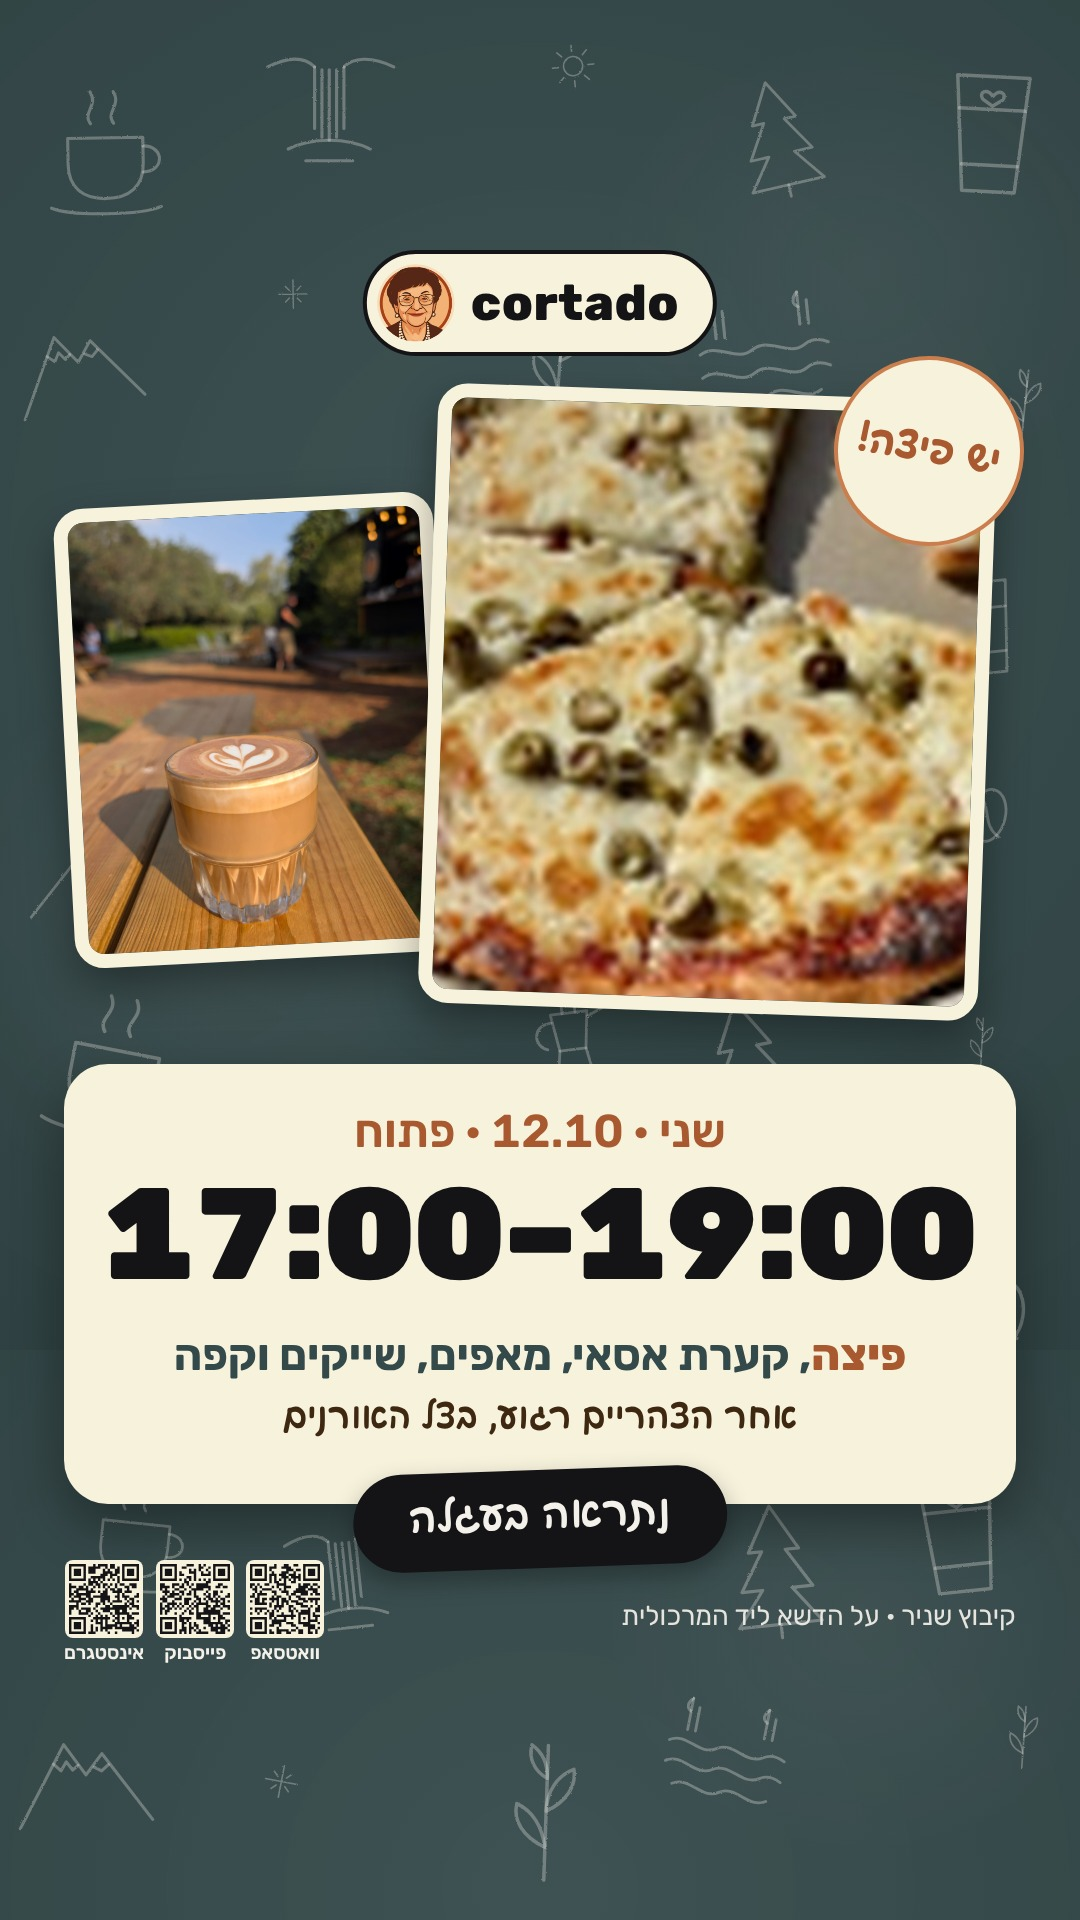
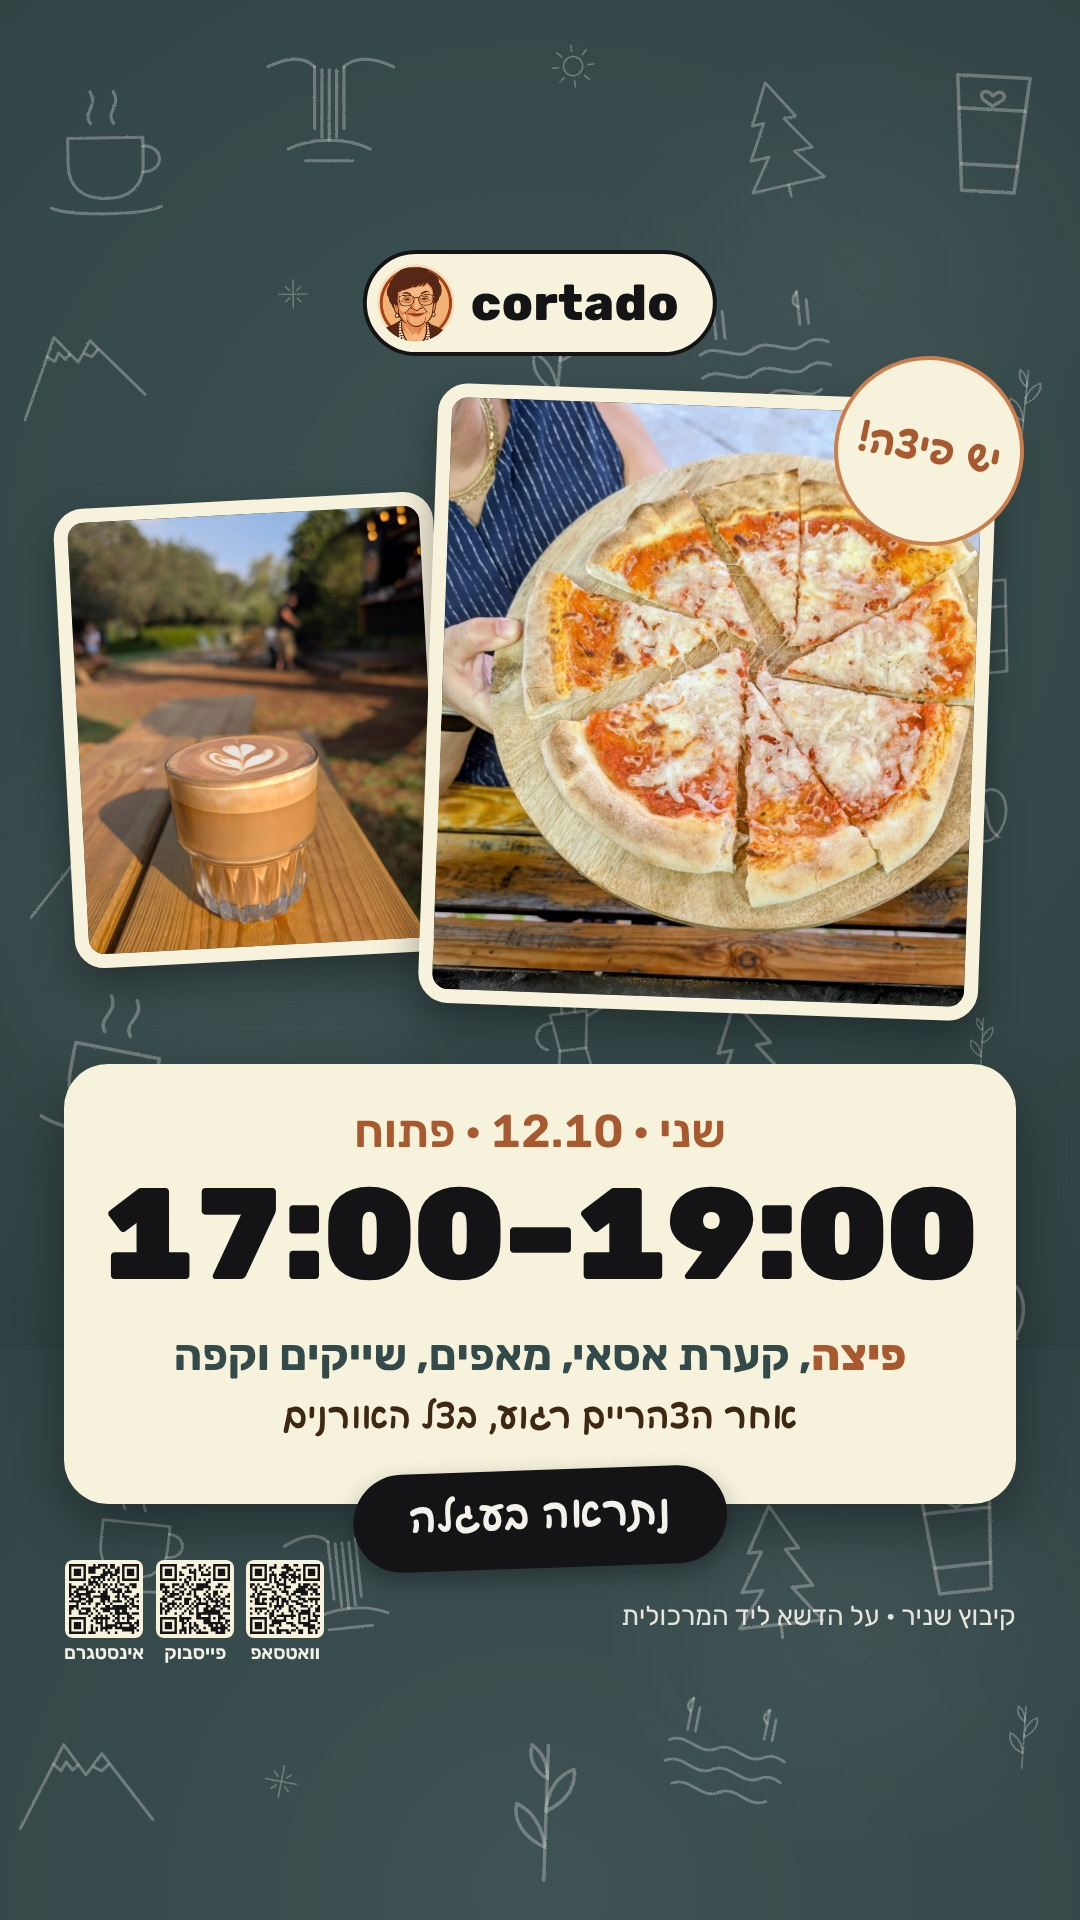
Next-day story: rotate photos inside each category, 10 new food photos from Drive
Claude-Session: https://claude.ai/code/session_019QzmPdVBuLLW1qBPRqj2bP

Changed region(s): [[0.3972, 0.1875, 0.9167, 0.5312]]

diff --git a/toolkit/scripts/next_day_story.py b/toolkit/scripts/next_day_story.py
@@ -9,24 +9,41 @@ import argparse, datetime, json, pathlib, subprocess, sys
 
 ROOT = pathlib.Path(__file__).resolve().parent.parent
 STATE = ROOT / "story-rotation.json"
-ROTATION = ["cortado-lawn.jpg", "pastry-tray.jpg", "acai.jpg"]  # coffee, pastry, acai bowl
+# Two levels of variety: the category turns coffee → pastry → acai, and inside each
+# category the photo turns too, so the same picture comes back as late as possible.
+POOLS = {
+    "coffee": ["cortado-lawn.jpg", "coffee-2.jpg", "coffee-3.jpg", "hero.jpg", "coffee-5.jpg", "coffee-4.jpg"],
+    "pastry": ["pastry-tray.jpg", "pastry-2.jpg", "pastry-4.jpg", "pastry-3.jpg", "pastry-5.jpg"],
+    "acai": ["acai.jpg", "acai-2.jpg"],
+    "pizza": ["pizza-2.jpg", "pizza.jpg"],
+}
+CATS = ["coffee", "pastry", "acai"]
 DAYS = ["שני", "שלישי", "רביעי", "חמישי", "שישי", "שבת", "ראשון"]  # date.weekday() order
 
 
-def story(date, ranges, last):
-    nxt = ROTATION[(ROTATION.index(last) + 1) % len(ROTATION)] if last in ROTATION else ROTATION[0]
+def take(state, cat):
+    i = state.setdefault("idx", {}).get(cat, -1) + 1
+    state["idx"][cat] = i
+    return POOLS[cat][i % len(POOLS[cat])]
+
+
+def story(date, ranges, state):
+    """Returns the story data; advances state (a dict) in place."""
+    cat = CATS[(CATS.index(state["cat"]) + 1) % len(CATS)] if state.get("cat") in CATS else CATS[0]
+    state["cat"] = cat
+    pick = take(state, cat)
     starts = [int(r[:2]) for r in ranges]
     ends = [int(r.split("–")[1][:2]) for r in ranges]
     evening = max(ends) >= 17
     s = {"day": DAYS[date.weekday()], "date": f"{date.day}.{date.month}", "hours": ranges}
     if evening:
-        s.update(main="pizza.jpg", second=nxt, sticker="יש פיצה!",
+        s.update(main=take(state, "pizza"), second=pick, sticker="יש פיצה!",
                  sub="<b>פיצה</b>, קערת אסאי, מאפים, שייקים וקפה")
     else:
-        s.update(main=nxt, second="sandwich.jpg", sub="קפה, כריכים, מאפים ושייקים")
+        s.update(main=pick, second="sandwich.jpg", sub="קפה, כריכים, מאפים ושייקים")
     s["line"] = ("אחר הצהריים רגוע, בצל האורנים" if min(starts) >= 15 else
                  "בוקר רגוע על הדשא, בצל האורנים" if not evening else "על הדשא, בצל האורנים")
-    return s, nxt
+    return s
 
 
 def main():
@@ -37,22 +54,23 @@ def main():
     o = a.parse_args()
     for r in o.hours:  # guard: exactly "HH:MM–HH:MM" with an en dash
         assert len(r) == 11 and r[5] == "–" and r[2] == r[8] == ":", f"bad range {r!r}"
-    last = json.loads(STATE.read_text())["last"] if STATE.exists() else None
-    s, nxt = story(datetime.date.fromisoformat(o.date), o.hours, last)
+    state = json.loads(STATE.read_text()) if STATE.exists() else {}
+    s = story(datetime.date.fromisoformat(o.date), o.hours, state)
     out = pathlib.Path(o.out); out.mkdir(parents=True, exist_ok=True)
     data = out / f"story-{o.date}.json"
     data.write_text(json.dumps({"week": "", "days": [], "story": s}, ensure_ascii=False))
     subprocess.run([sys.executable, str(ROOT / "scripts/render.py"), "--hours", str(data),
                     "--only", "56", "--out", str(out)], check=True)
     (out / "56-next-day-story.png").rename(out / f"next-day-story-{o.date}.png")
-    STATE.write_text(json.dumps({"last": nxt}) + "\n")
+    STATE.write_text(json.dumps(state) + "\n")
     print(json.dumps(s, ensure_ascii=False))
 
 
 if __name__ == "__main__":
-    # self-check of the rotation and the evening rule
-    d = datetime.date(2026, 10, 12)
-    assert story(d, ["17:00–19:00"], "acai.jpg")[0]["main"] == "pizza.jpg"
-    assert story(d, ["17:00–19:00"], "acai.jpg")[1] == "cortado-lawn.jpg"
-    assert story(d, ["09:00–15:00"], "cortado-lawn.jpg")[0]["main"] == "pastry-tray.jpg"
+    # self-check: categories turn, photos inside a category turn, no photo repeats early
+    st, d = {}, datetime.date(2026, 10, 12)
+    seen = [story(d, ["17:00–19:00"], st)["second"] for _ in range(6)]
+    assert seen[:3] == ["cortado-lawn.jpg", "pastry-tray.jpg", "acai.jpg"], seen
+    assert seen[3:] == ["coffee-2.jpg", "pastry-2.jpg", "acai-2.jpg"], seen
+    assert all((ROOT / "assets/photos" / f).exists() for v in POOLS.values() for f in v)
     main()
